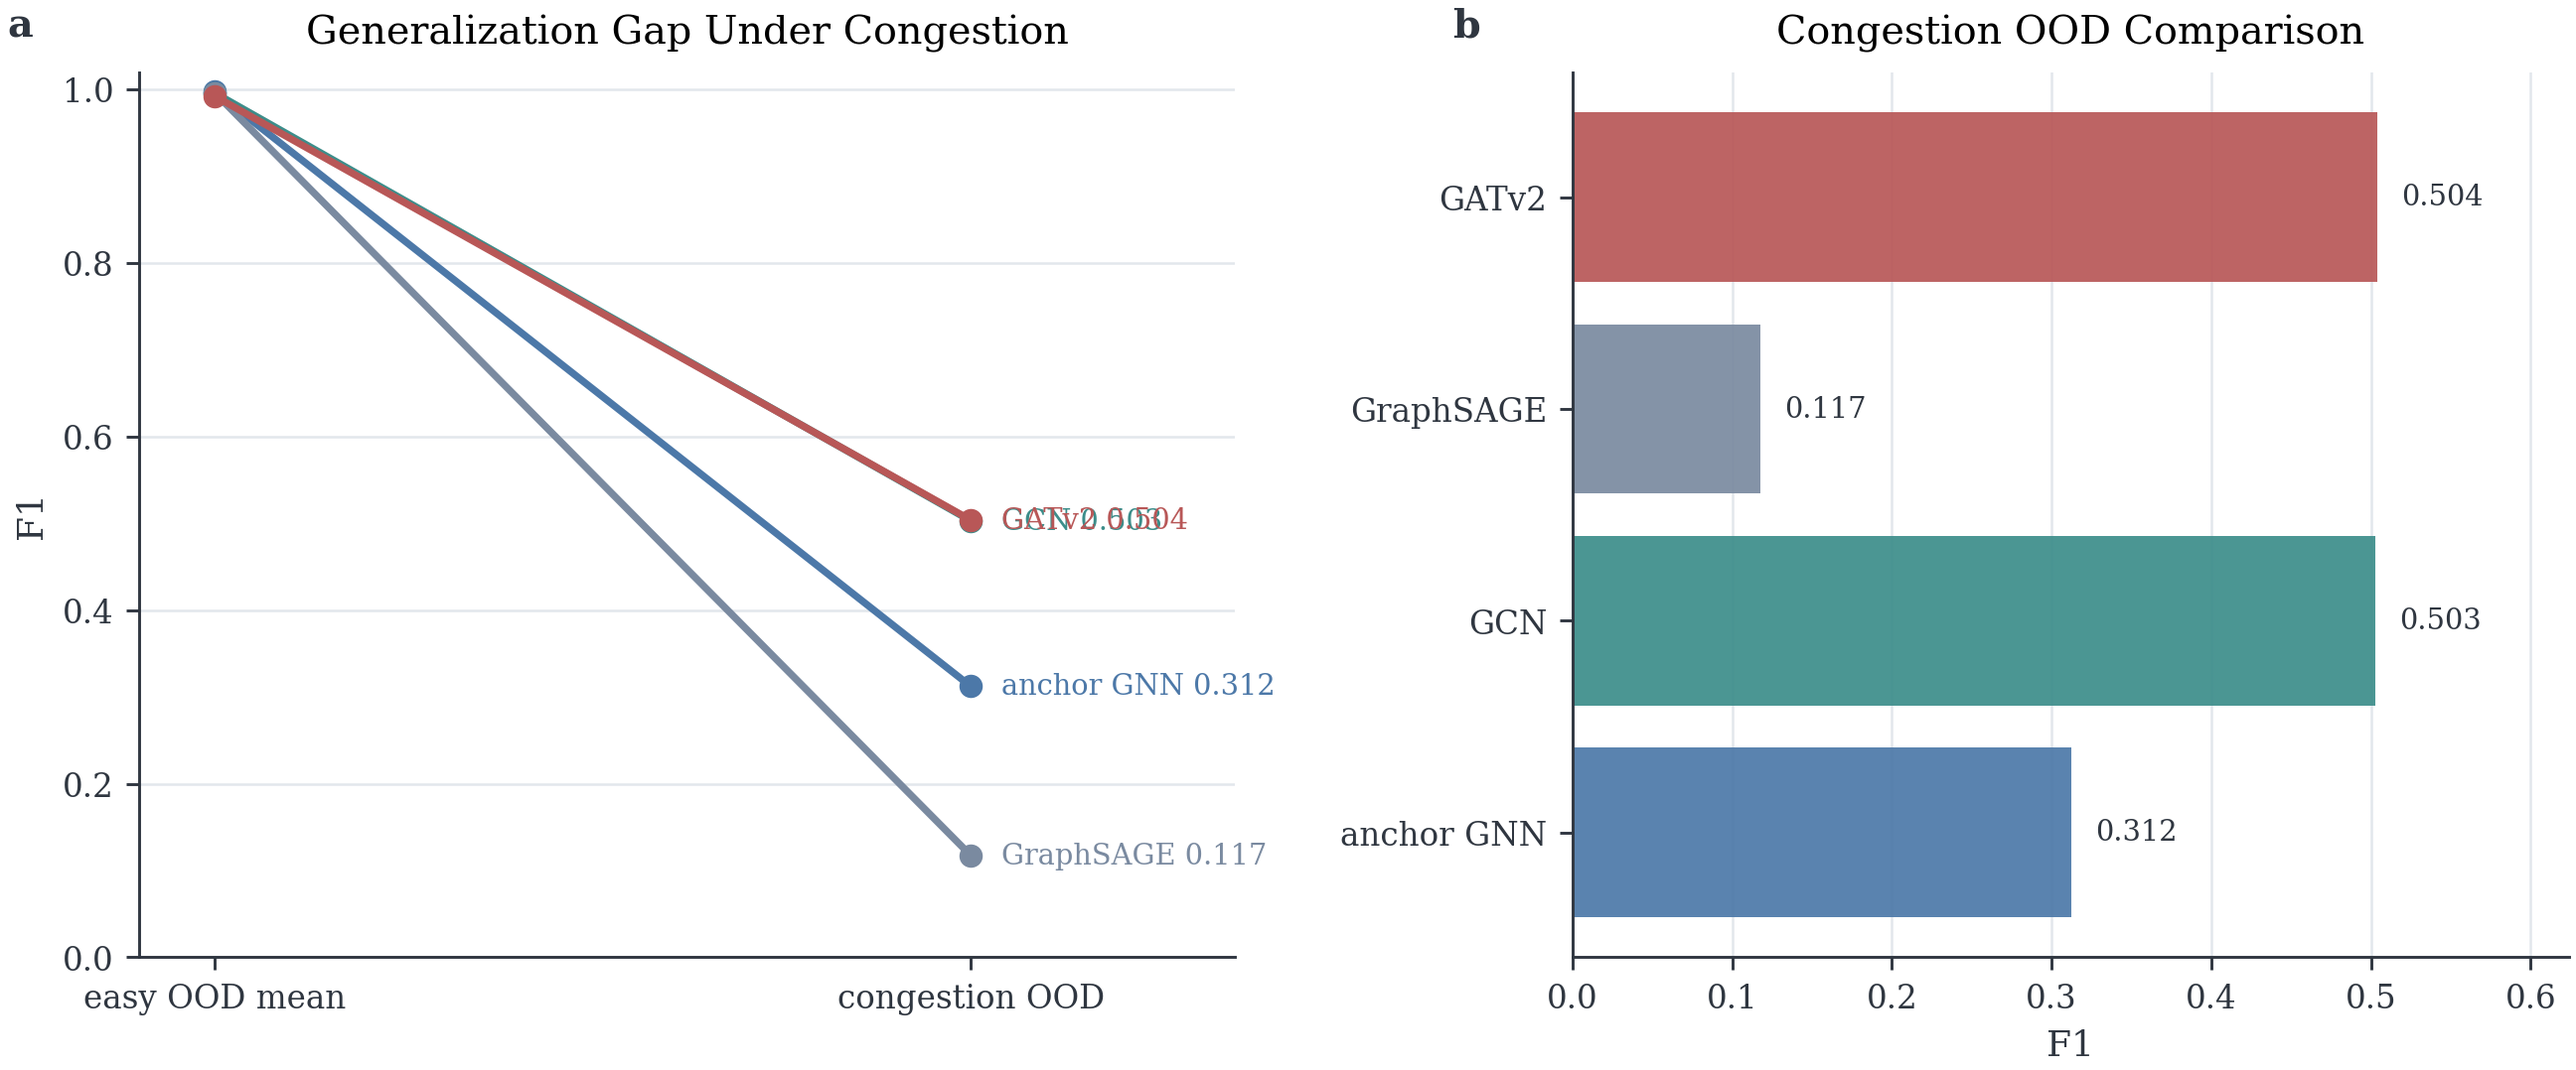
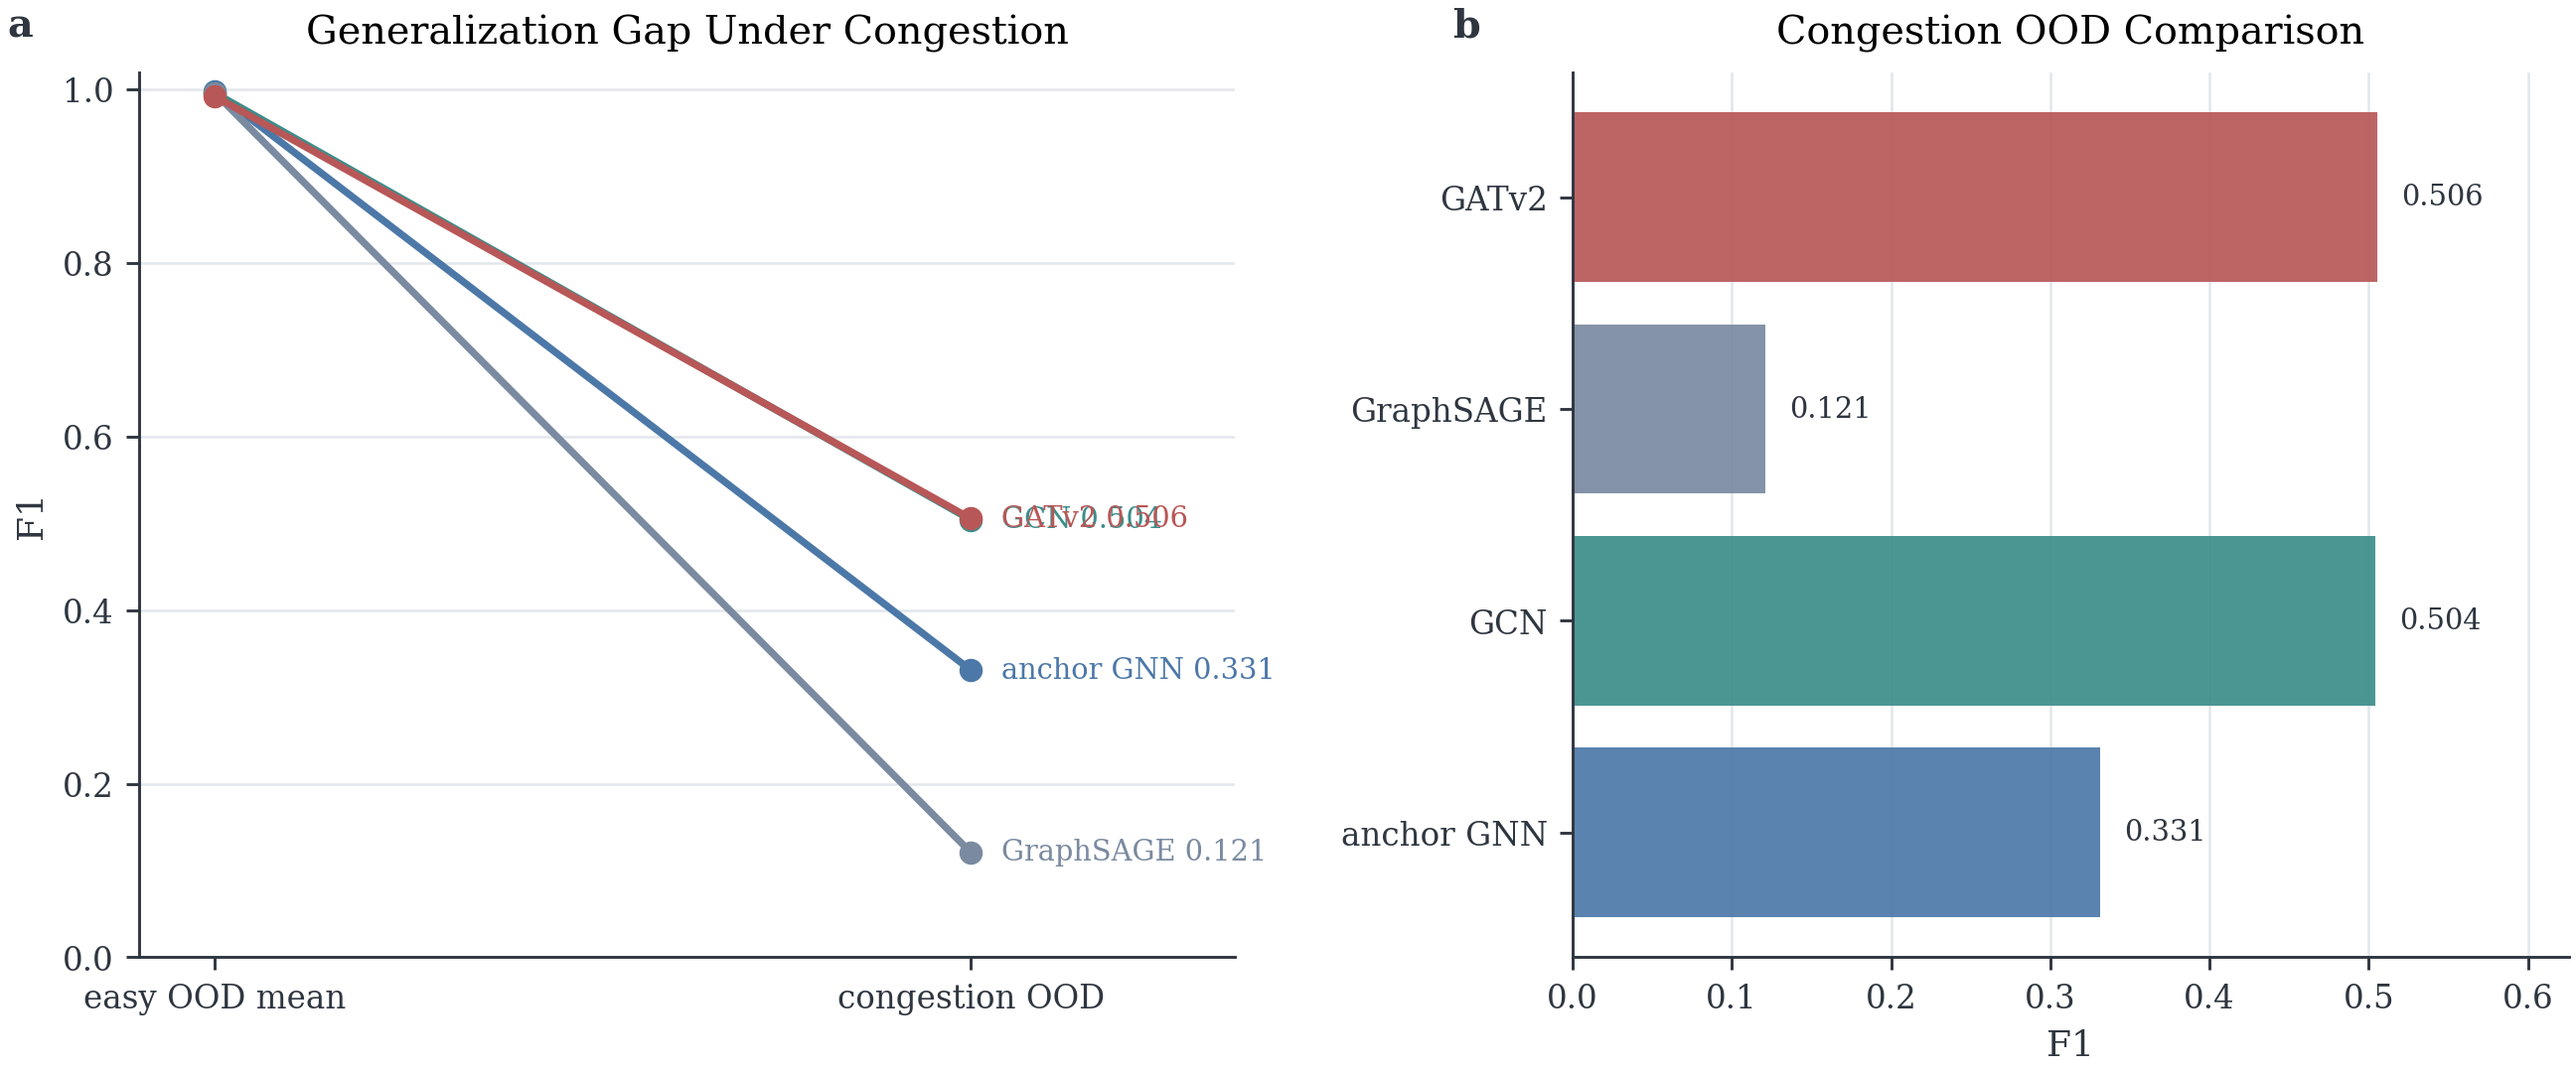
Align paper artifacts with submitted manuscript

diff --git a/core_experiments/make_paper_tables_figs.py b/core_experiments/make_paper_tables_figs.py
@@ -19,6 +19,7 @@ from matplotlib.colors import LinearSegmentedColormap
 REPO_ROOT = Path(__file__).resolve().parent
 RUN_ROOT = REPO_ROOT.parent / "paper_artifacts" / "runs"
 OUTPUT_ROOT = REPO_ROOT.parent / "paper_artifacts"
+MANUSCRIPT_REFERENCE = REPO_ROOT.parent / "paper_artifacts" / "manuscript_reference.json"
 MODELS_MAIN = ["data_only", "gcn", "graphsage", "gatv2"]
 
 PALETTE = {
@@ -223,6 +224,79 @@ def mean_metric(block: dict[str, Any], metric: str) -> float:
     return float(block.get(metric, {}).get("mean", 0.0))
 
 
+def stage3_run_metric(row: dict[str, Any], metric: str) -> float:
+    metrics = row.get("metrics", {})
+    if metric == "fpr":
+        fp = float(metrics.get("fp", 0.0))
+        tn = float(metrics.get("tn", 0.0))
+        return float(fp / max(fp + tn, 1.0))
+    return float(metrics.get(metric, 0.0))
+
+
+def mean_stage3_run_metric(
+    top: dict[str, Any],
+    *,
+    protocol: str,
+    poison_case: str,
+    model: str,
+    metric: str,
+) -> float:
+    rows = [
+        row
+        for row in top.get("stage3_runs", [])
+        if row.get("protocol") == protocol and row.get("poison_case") == poison_case and row.get("model") == model
+    ]
+    if not rows:
+        return 0.0
+    return float(np.mean([stage3_run_metric(row, metric) for row in rows]))
+
+
+def paper_congestion_anchor(top: dict[str, Any], congestion: dict[str, Any] | None) -> dict[str, float]:
+    block = top.get("statistics", {}).get("stage3", {}).get("congestion_ood", {}).get("clean", {}).get("data_only")
+    if block:
+        return {
+            "f1": mean_metric(block, "f1"),
+            "recall": mean_metric(block, "recall"),
+            "fpr": mean_stage3_run_metric(
+                top,
+                protocol="congestion_ood",
+                poison_case="clean",
+                model="data_only",
+                metric="fpr",
+            ),
+        }
+    if congestion is None:
+        return {"f1": 0.0, "recall": 0.0, "fpr": 0.0}
+    fallback = congestion.get("stage3_stats", {}).get("data_only", {})
+    return {
+        "f1": mean_metric(fallback, "f1"),
+        "recall": mean_metric(fallback, "recall"),
+        "fpr": mean_metric(fallback, "fpr"),
+    }
+
+
+def paper_congestion_baseline(
+    baseline: dict[str, Any],
+    congestion: dict[str, Any] | None,
+    model: str,
+) -> dict[str, float]:
+    block = baseline.get("stats", {}).get("congestion_ood", {}).get(model)
+    if block:
+        return {
+            "f1": mean_metric(block, "f1"),
+            "recall": mean_metric(block, "recall"),
+            "fpr": mean_metric(block, "fpr"),
+        }
+    if congestion is None:
+        return {"f1": 0.0, "recall": 0.0, "fpr": 0.0}
+    fallback = congestion.get("baseline_stats", {}).get(model, {})
+    return {
+        "f1": mean_metric(fallback, "f1"),
+        "recall": mean_metric(fallback, "recall"),
+        "fpr": mean_metric(fallback, "fpr"),
+    }
+
+
 def select_cross_scenario(cross: dict[str, Any]) -> str | None:
     preferred = "scenario_h_mimic_heavy_overlap"
     if preferred in cross.get("per_scenario_stats", {}):
@@ -231,8 +305,23 @@ def select_cross_scenario(cross: dict[str, Any]) -> str | None:
     return names[0] if names else None
 
 
-def build_table1(top: dict[str, Any], baseline: dict[str, Any], congestion: dict[str, Any], tables_dir: Path) -> None:
+def build_table1(
+    top: dict[str, Any],
+    baseline: dict[str, Any],
+    congestion: dict[str, Any] | None,
+    tables_dir: Path,
+    manuscript: dict[str, Any] | None,
+) -> None:
+    manuscript_rows = manuscript.get("table1") if manuscript else None
+    if manuscript_rows:
+        rows = [["protocol", "model", "f1", "recall", "fpr"]]
+        for row in manuscript_rows:
+            rows.append([row["protocol"], row["model"], row["f1"], row["recall"], row["fpr"]])
+        write_csv(tables_dir / "table1_selected_detection.csv", rows)
+        return
+
     stage3 = top["statistics"]["stage3"]
+    congestion_anchor = paper_congestion_anchor(top, congestion)
     rows = [["protocol", "model", "f1", "recall", "fpr"]]
     rows.append(
         [
@@ -256,25 +345,34 @@ def build_table1(top: dict[str, Any], baseline: dict[str, Any], congestion: dict
         [
             "congestion_ood",
             "anchor_gnn",
-            mean_metric(congestion["stage3_stats"]["data_only"], "f1"),
-            mean_metric(congestion["stage3_stats"]["data_only"], "recall"),
-            mean_metric(congestion["stage3_stats"]["data_only"], "fpr"),
+            congestion_anchor["f1"],
+            congestion_anchor["recall"],
+            congestion_anchor["fpr"],
         ]
     )
     for model in ["gatv2", "gcn", "graphsage"]:
+        block = paper_congestion_baseline(baseline, congestion, model)
         rows.append(
             [
                 "congestion_ood",
                 model,
-                mean_metric(congestion["baseline_stats"][model], "f1"),
-                mean_metric(congestion["baseline_stats"][model], "recall"),
-                mean_metric(congestion["baseline_stats"][model], "fpr"),
+                block["f1"],
+                block["recall"],
+                block["fpr"],
             ]
         )
     write_csv(tables_dir / "table1_selected_detection.csv", rows)
 
 
-def build_table2(cross: dict[str, Any], tables_dir: Path) -> None:
+def build_table2(cross: dict[str, Any], tables_dir: Path, manuscript: dict[str, Any] | None) -> None:
+    manuscript_rows = manuscript.get("table2") if manuscript else None
+    if manuscript_rows:
+        rows = [["scenario", "model", "f1", "recall", "fpr"]]
+        for row in manuscript_rows:
+            rows.append([row["scenario"], row["model"], row["f1"], row["recall"], row["fpr"]])
+        write_csv(tables_dir / "table2_cross_scenario.csv", rows)
+        return
+
     scenario_name = select_cross_scenario(cross)
     if scenario_name is None:
         return
@@ -293,7 +391,15 @@ def build_table2(cross: dict[str, Any], tables_dir: Path) -> None:
     write_csv(tables_dir / "table2_cross_scenario.csv", rows)
 
 
-def build_table3(overhead: dict[str, Any], tables_dir: Path) -> None:
+def build_table3(overhead: dict[str, Any], tables_dir: Path, manuscript: dict[str, Any] | None) -> None:
+    manuscript_rows = manuscript.get("table3") if manuscript else None
+    if manuscript_rows:
+        rows = [["stage", "seconds", "flow_nodes", "edges"]]
+        for row in manuscript_rows:
+            rows.append([row["stage"], row["seconds"], row["flow_nodes"], row["edges"]])
+        write_csv(tables_dir / "table3_pipeline_cost.csv", rows)
+        return
+
     primary = overhead.get("graph_stats", {}).get("primary", {})
     stress = overhead.get("graph_stats", {}).get("stress", {})
     protocol = overhead.get("graph_stats", {}).get("stress_protocol", {})
@@ -314,19 +420,20 @@ def build_table3(overhead: dict[str, Any], tables_dir: Path) -> None:
     write_csv(tables_dir / "table3_pipeline_cost.csv", rows)
 
 
-def make_figure1(top: dict[str, Any], baseline: dict[str, Any], congestion: dict[str, Any], figures_dir: Path) -> None:
+def make_figure1(top: dict[str, Any], baseline: dict[str, Any], congestion: dict[str, Any] | None, figures_dir: Path) -> None:
     stage3 = top["statistics"]["stage3"]
     easy_protocols = ["temporal_ood", "topology_ood", "attack_strategy_ood"]
 
     easy_means: list[float] = []
     congestion_means: list[float] = []
+    congestion_anchor = paper_congestion_anchor(top, congestion)
     for model in MODELS_MAIN:
         if model == "data_only":
             easy_means.append(float(np.mean([mean_metric(stage3[p]["clean"]["data_only"], "f1") for p in easy_protocols])))
-            congestion_means.append(mean_metric(congestion["stage3_stats"]["data_only"], "f1"))
+            congestion_means.append(congestion_anchor["f1"])
         else:
             easy_means.append(float(np.mean([mean_metric(baseline["stats"][p][model], "f1") for p in easy_protocols])))
-            congestion_means.append(mean_metric(congestion["baseline_stats"][model], "f1"))
+            congestion_means.append(paper_congestion_baseline(baseline, congestion, model)["f1"])
 
     fig, (ax1, ax2) = plt.subplots(1, 2, figsize=(10.2, 4.4), gridspec_kw={"width_ratios": [1.1, 1.0]})
 
@@ -446,6 +553,7 @@ def main() -> None:
     ap.add_argument("--network-sensitivity-dir", default=str(RUN_ROOT / "network_sensitivity"))
     ap.add_argument("--edge-suite-dir", default=str(RUN_ROOT / "edge_budget"))
     ap.add_argument("--overhead-dir", default=str(RUN_ROOT / "system_overhead"))
+    ap.add_argument("--manuscript-reference", default=str(MANUSCRIPT_REFERENCE))
     ap.add_argument("--output-dir", default=str(OUTPUT_ROOT))
     args = ap.parse_args()
 
@@ -453,6 +561,7 @@ def main() -> None:
     output_root = Path(args.output_dir).resolve()
     tables_dir, figures_dir = ensure_dirs(output_root)
 
+    manuscript = maybe_read_json(Path(args.manuscript_reference).resolve())
     top = maybe_read_json(Path(args.suite_dir).resolve() / "top_conf_summary.json")
     baseline = maybe_read_json(Path(args.suite_dir).resolve() / "baseline_significance" / "baseline_significance_summary.json")
     congestion = maybe_read_json(Path(args.congestion_focus_dir).resolve() / "congestion_focus_summary.json")
@@ -461,15 +570,15 @@ def main() -> None:
     edge = maybe_read_json(Path(args.edge_suite_dir).resolve() / "edge_suite_summary.json")
     overhead = maybe_read_json(Path(args.overhead_dir).resolve() / "overhead_summary.json")
 
-    if top is not None and baseline is not None and congestion is not None:
-        build_table1(top, baseline, congestion, tables_dir)
+    if top is not None and baseline is not None:
+        build_table1(top, baseline, congestion, tables_dir, manuscript)
         make_figure1(top, baseline, congestion, figures_dir)
 
     if cross is not None:
-        build_table2(cross, tables_dir)
+        build_table2(cross, tables_dir, manuscript)
 
     if overhead is not None:
-        build_table3(overhead, tables_dir)
+        build_table3(overhead, tables_dir, manuscript)
 
     if network is not None:
         make_figure2(network, figures_dir)

diff --git a/README.md b/README.md
@@ -66,7 +66,7 @@ The Mininet scenario-generation script also requires a valid `LLM_API_KEY` or `D
 - `torch`
 - `torch-geometric`
 - `scikit-learn`
-- `flwr`
+- `flwr[simulation]` (installs the `ray` backend required by the federated experiments)
 - `scapy`
 
 ### Mininet scenario-generation dependencies
@@ -85,3 +85,5 @@ The Mininet scenario-generation script also requires a valid `LLM_API_KEY` or `D
 The offline benchmark can start directly from the downloadable packet-capture bundle above. Running the Mininet module is only required for reviewers who want to regenerate the five packet captures from scratch in a Mininet-capable Ubuntu/Linux environment.
 
 Detailed execution commands, expected inputs, and output locations are documented in the `README.md` file of each submodule.
+
+For manuscript-facing paper outputs, `core_experiments/make_paper_tables_figs.py` now takes the `congestion_ood` values for Table 1 and Figure 1 from `paper_artifacts/runs/main_suite/` by default so the generated summary stays aligned with the submitted paper. The separate `congestion_focus` run remains available as an auxiliary stress sweep. The submitted table values are additionally frozen in [`paper_artifacts/manuscript_reference.json`](./paper_artifacts/manuscript_reference.json), which is used only when regenerating the paper-ready tables.

diff --git a/core_experiments/README.md b/core_experiments/README.md
@@ -24,7 +24,7 @@ The offline pipeline depends on the following Python packages:
 - `torch`
 - `torch-geometric`
 - `scikit-learn`
-- `flwr`
+- `flwr[simulation]`
 - `scapy`
 
 The repository provides an example Conda environment file at `../environment.yml`, and locked evaluation dependencies under `../repro/`.
@@ -38,6 +38,8 @@ Before running this module, ensure that the scenario captures already exist unde
 These packet captures are bundled with the repository for the five paper scenarios, so reviewers can start directly from the offline benchmark pipeline.
 
 For direct regeneration of the paper figures and tables, the precomputed run summaries required by `make_paper_tables_figs.py` are also shipped under `../paper_artifacts/runs/`.
+
+For the submitted paper numbers, `make_paper_tables_figs.py` treats `main_suite` as the authoritative source for the `congestion_ood` values in Table 1 and Figure 1. The separate `congestion_focus` summary is retained as an auxiliary stress-analysis output, but is no longer the default source for those manuscript-facing artifacts. The exact submitted table values are also frozen in `../paper_artifacts/manuscript_reference.json` and are only applied at the final paper-table export stage.
 
 ## Execution Entry
 
